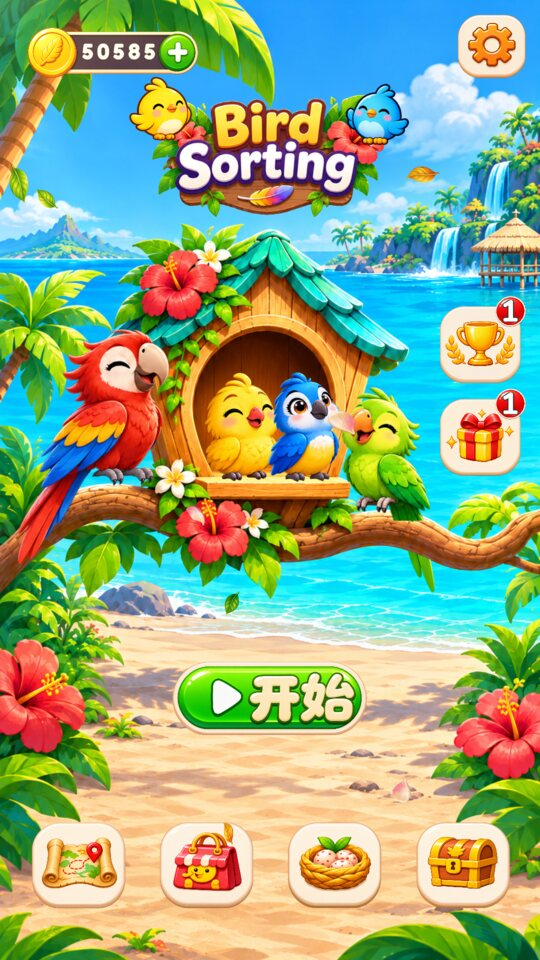
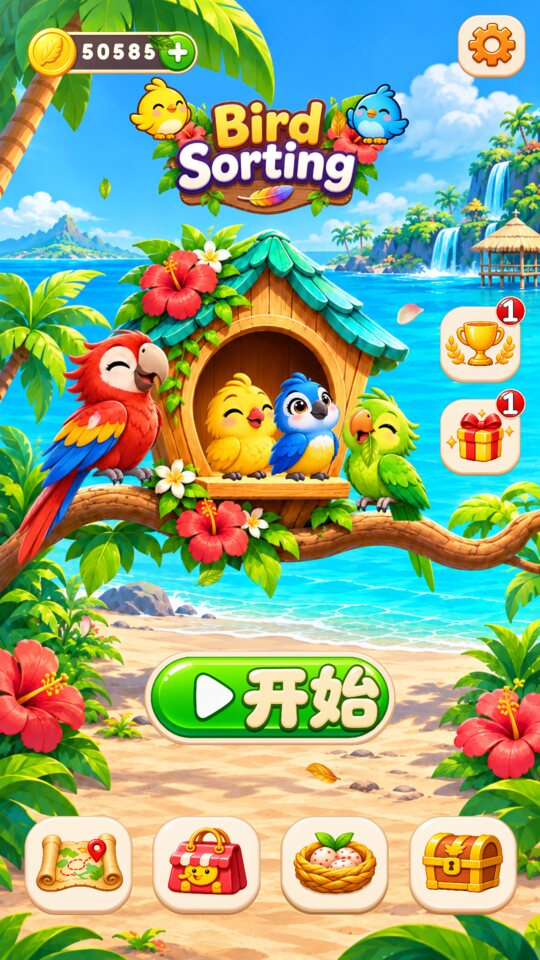
Restore balanced homepage button proportions

diff --git a/docs/work-log/island-home/report.md b/docs/work-log/island-home/report.md
@@ -5,7 +5,7 @@
 - Replaced the homepage coin HUD with the approved feather-coin / dark-slot / green-plus artwork. The number region is separate from the plus. The plus is retained visually for a future entry; no purchase, recharge or new click action exists.
 - Homepage coins now display plain digits without commas, capped at 99999. The profile balance, economy, saves and values on other pages are not changed.
 - Added the approved independent painted `Play` and `开始` word sprites. A locale-change notification updates the homepage word immediately when Settings switches language. No shared locale catalog or shared font behavior changed.
-- Corrected the proportions reported in the user's runtime screenshot: Play grows from 240x93 to 340x132 visible pixels, with a proportionally enlarged 193x99 painted-word box. Its hit area grows from 260x112 to 360x152 around the same center. The four bottom faces shrink from 208x191 to 164x151 while their 208x191 hit targets and positions stay unchanged. The documented elongated-Play exception permits its width; its height remains restrained.
+- Applied the user's follow-up that the controls had been reduced too far. Bottom faces are now 190x174, about 9 percent smaller than the original 208x191 design rather than the previous 21 percent reduction. Their original 208x191 hit targets and positions stay unchanged. Play is restored to a 440x171 visible surface with a proportionate 250x128 word box and a 460x191 hit area around the same center. It remains smaller than the original large mockup pill and retains clear primary-action hierarchy. The documented elongated-Play width exception still applies.
 - Centered the visible numeral ink in the coin slot. The old alignment centered a 120px cell despite unequal transparent top/bottom margins, causing the number to appear high. The number area now has center y90.5 in reference pixels, and the complete ink union is aligned to it without changing glyph assets or balances.
 - Reward badges remain attached to the smaller visible navigation faces, rather than floating at the old touch-target edge.
 - Retained all six existing entries, Settings, original background, house, bird frame sequences, breathing, navigation signals, level selection, audio and reward badges. The yellow logo bird moves 20 reference pixels right to sit on the smaller sign.
@@ -24,7 +24,7 @@ Ran Godot 4.7.2 asset import and two focused canonical-homepage captures using `
 - Under `xvfb-run -a -s '-screen 0 1280x2000x24'`: the same Godot binary with `--path PerchSort --audio-driver Dummy --rendering-driver opengl3 --resolution 1080x1920 -- --capture=<output> --lang=<locale> --profile=<fake profile JSON> --wait=0.8`.
 - Chinese input: `{"coins":50585,"language":"zh"}`. English input: `{"coins":1234567,"language":"en"}`.
 - Both runs completed successfully and produced 1080x1920 screenshots. No parse/script/error lines occurred. Both logs contain only the expected virtual-display warning that V-Sync cannot be changed.
-- Personally inspected both real runtime images against the user screenshot and retained design: visible coin numerals are vertically centered, 50585/99999 are clear of the plus, Play/开始 fit their larger surface, and all four smaller bottom faces retain even spacing. The header, house and six entries remain present. These stills establish layout only, not animation or sound.
+- Personally inspected both real runtime images against the user screenshot and retained design: visible coin numerals are vertically centered, 50585/99999 are clear of the plus, Play/开始 fit their larger surface, and all four smaller bottom faces retain even spacing. The header, house and six entries remain present. These captures were rerun after the size restoration; no screenshot from the preceding correction is reused. These stills establish layout only, not animation or sound.
 - Evidence: `build/island-home/layout-review/{home_zh.png,home_en.png,home_zh.log,home_en.log,import.log}`. Small copies of the current captures and logs are in `evidence/layout-review/` for review, not in the approved-runtime baseline.
 
 Independent review inspected the source diff, the same actual runtime images and capture logs and reported no blocking findings.

diff --git a/docs/work-log/island-home/spec.md b/docs/work-log/island-home/spec.md
@@ -22,8 +22,8 @@ Measured reference-canvas layout:
 - Title: `(260,159,420,226)`. The yellow logo bird's feet move from x265 to x285 to remain supported by the smaller sign; bird art and size do not change.
 - Coin HUD: `(22,31,350,117)`, numeric area `(139.5,71.5,135,38)`. Preserve the plus as part of the approved artwork, with no recharge or purchase action.
 - Show plain digits without separators. Values above 99999 show 99999; this is display-only and never writes back to the profile or economy.
-- Following the user's runtime screenshot feedback, Play is centered at the same point with a `(290,1142,360,152)` hit area and a 340x132 visible face. Its approved painted word fits a 193x99 box at local `(139,26)`. The larger hit area fully contains the previous one. The elongated-pill width exception in `docs/design/ui-system.md` applies; its height stays below the navigation height.
-- The four bottom navigation faces are 164x151, centered inside unchanged 208x191 touch targets. Their positions, spacing and callbacks remain unchanged. Reward badges follow the visible face. Settings, the two event controls, house, background, bird frame sequences and other pages remain unchanged.
+- Following the user's runtime screenshot feedback, Play is centered at the same point with a `(240,1122.5,460,191)` hit area and a 440x171 visible face. Its approved painted word fits a 250x128 box at local `(177,31)`. The larger hit area fully contains the previous one. The elongated-pill width exception in `docs/design/ui-system.md` applies; its height stays at or below the navigation height.
+- The four bottom navigation faces are 190x174 (about 9 percent below the original 208x191 design, rather than the over-reduced 164x151), centered inside unchanged 208x191 touch targets. Their positions, spacing and callbacks remain unchanged. Reward badges follow the visible face. Settings, the two event controls, house, background, bird frame sequences and other pages remain unchanged.
 - Vertically center the union of the actual numeral ink bounds, rather than the unequal transparent glyph-cell margins. Preserve numeral size, baseline spacing and the separate plus region.
 
 ## Validation and handover
